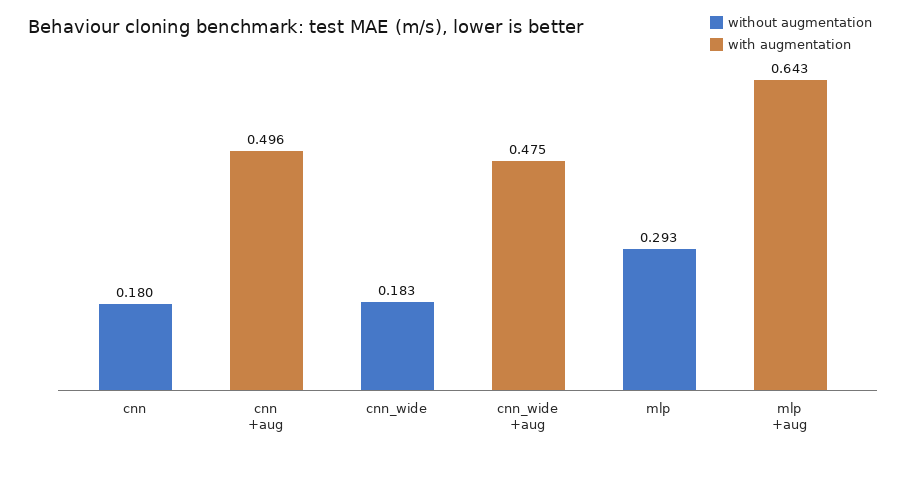
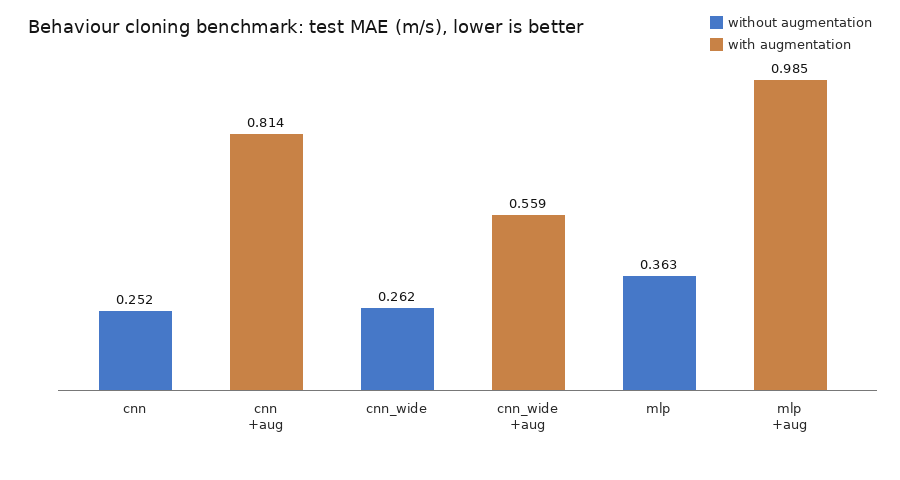
fix(air): uav_bc_bench 改为按时间连续切分，结构随 image_size 自适应
- 数据切分：随机打乱 -> 前 80%/中 10%/后 10% 连续三段，消除相邻帧的时间泄漏
- models.build() 接收 image_size，展平维度由 image_size//8 计算，非 64 不再维度不匹配
- 新增 --synthetic N：生成同格式合成数据集，模块可脱离 #827 的数据独立运行
- 用新切分重跑对比（555 样本/20 轮/2 种子）并同步文档与柱状图

diff --git a/src/air/uav_bc_bench/uav_bc_bench/models.py b/src/air/uav_bc_bench/uav_bc_bench/models.py
@@ -1,7 +1,21 @@
-"""参与对比的三种行为克隆网络结构。"""
+"""参与对比的三种行为克隆网络结构。
+
+所有结构都接受 ``image_size`` 参数，卷积后的展平维度由 ``image_size // 8`` 计算，
+这样把 ``--image-size`` 改成别的值（例如 32 或 96）时不会出现维度不匹配。
+"""
 
 import torch
 from torch import nn
+
+
+def _conv_out_dim(image_size, pools=3):
+    """三层 2x2 池化之后特征图边长。"""
+    size = int(image_size)
+    for _ in range(pools):
+        size //= 2
+    if size < 1:
+        raise ValueError(f'image_size={image_size} 太小，三层池化后特征图为空')
+    return size
 
 
 class MLPNet(nn.Module):
@@ -11,7 +25,7 @@ class MLPNet(nn.Module):
         super().__init__()
         self.features = nn.Sequential(
             nn.Flatten(),
-            nn.Linear(image_size * image_size, hidden),
+            nn.Linear(int(image_size) * int(image_size), hidden),
             nn.ReLU(inplace=True),
             nn.Linear(hidden, hidden),
             nn.ReLU(inplace=True),
@@ -25,14 +39,15 @@ class MLPNet(nn.Module):
 class CNNNet(nn.Module):
     """最简卷积结构：16/32/64 三层，与任务 4 的 DrivingCNN 一致。"""
 
-    def __init__(self):
+    def __init__(self, image_size=64):
         super().__init__()
+        flat = 64 * _conv_out_dim(image_size) ** 2
         self.features = nn.Sequential(
             nn.Conv2d(1, 16, 3, padding=1), nn.ReLU(inplace=True), nn.MaxPool2d(2),
             nn.Conv2d(16, 32, 3, padding=1), nn.ReLU(inplace=True), nn.MaxPool2d(2),
             nn.Conv2d(32, 64, 3, padding=1), nn.ReLU(inplace=True), nn.MaxPool2d(2),
             nn.Flatten(),
-            nn.Linear(64 * 8 * 8, 128), nn.ReLU(inplace=True),
+            nn.Linear(flat, 128), nn.ReLU(inplace=True),
         )
         self.head = nn.Linear(128, 2)
 
@@ -43,15 +58,16 @@ class CNNNet(nn.Module):
 class CNNWideNet(nn.Module):
     """加宽卷积 + 批归一化 + dropout，验证容量与正则化的影响。"""
 
-    def __init__(self):
+    def __init__(self, image_size=64):
         super().__init__()
+        flat = 128 * _conv_out_dim(image_size) ** 2
         self.features = nn.Sequential(
             nn.Conv2d(1, 32, 3, padding=1), nn.BatchNorm2d(32), nn.ReLU(inplace=True), nn.MaxPool2d(2),
             nn.Conv2d(32, 64, 3, padding=1), nn.BatchNorm2d(64), nn.ReLU(inplace=True), nn.MaxPool2d(2),
             nn.Conv2d(64, 128, 3, padding=1), nn.BatchNorm2d(128), nn.ReLU(inplace=True), nn.MaxPool2d(2),
             nn.Flatten(),
             nn.Dropout(0.2),
-            nn.Linear(128 * 8 * 8, 256), nn.ReLU(inplace=True),
+            nn.Linear(flat, 256), nn.ReLU(inplace=True),
             nn.Dropout(0.2),
         )
         self.head = nn.Linear(256, 2)
@@ -67,11 +83,11 @@ MODELS = {
 }
 
 
-def build(name):
-    """按名字构造网络。"""
+def build(name, image_size=64):
+    """按名字构造网络，``image_size`` 会透传给结构本身。"""
     if name not in MODELS:
         raise KeyError(f'未知结构 {name}，可选 {sorted(MODELS)}')
-    return MODELS[name]()
+    return MODELS[name](image_size=image_size)
 
 
 def num_parameters(model):

diff --git a/src/air/uav_bc_bench/uav_bc_bench/bench.py b/src/air/uav_bc_bench/uav_bc_bench/bench.py
@@ -32,11 +32,21 @@ def _augment(images, rng):
 
 
 def _split(n, seed):
-    rng = np.random.default_rng(seed)
-    idx = rng.permutation(n)
+    """按时间顺序切成连续三段。
+
+    连续飞行的相邻帧高度相关，随机打乱会让邻帧同时落进训练集和测试集，
+    评估结果被时间泄漏抬高。这里 train/val/test = 前 80%/中 10%/后 10%，
+    每段的起始点再按 seed 做一点抖动，避免固定切点带来的偶然性。
+    """
     n_val = max(1, int(round(n * 0.1)))
     n_test = max(1, int(round(n * 0.1)))
-    return idx[n_val + n_test:], idx[:n_val], idx[n_val:n_val + n_test]
+    n_train = n - n_val - n_test
+    if n_train < 2:
+        raise ValueError(f'样本数 {n} 太少，无法切成 8:1:1')
+    jitter = 0 if seed == 0 else int(np.random.default_rng(seed).integers(0, max(1, n_val)))
+    a = max(2, n_train - jitter)
+    b = min(n - n_test, a + n_val + (jitter // 2))
+    return (np.arange(0, a), np.arange(a, b), np.arange(b, n))
 
 
 def _evaluate(model, loader, loss_fn):
@@ -69,7 +79,7 @@ def train_one(structure, use_augment, seed, images, targets, epochs, image_size,
     val_loader = loader(val_idx, images[val_idx], False)
     test_loader = loader(test_idx, images[test_idx], False)
 
-    model = build(structure)
+    model = build(structure, image_size=image_size)
     optimizer = torch.optim.Adam(model.parameters(), lr=1e-3)
     loss_fn = nn.MSELoss()
 
@@ -224,10 +234,20 @@ def main(argv=None):
     parser.add_argument('--batch-size', type=int, default=32)
     parser.add_argument('--structures', default='mlp,cnn,cnn_wide')
     parser.add_argument('--no-augment', action='store_true')
+    parser.add_argument('--image-size', type=int, default=64)
+    parser.add_argument('--synthetic', type=int, default=0,
+                        help='大于 0 时先在该目录生成等量合成样本，不依赖任何仿真数据')
     args = parser.parse_args(argv)
-    run_benchmark(args.dataset_dir, args.output_dir, epochs=args.epochs, seeds=args.seeds,
+    dataset_dir = args.dataset_dir
+    if args.synthetic > 0:
+        from .data import synthesize_dataset
+        dataset_dir = synthesize_dataset(os.path.join(args.output_dir, 'synthetic'),
+                                         samples=args.synthetic, seed=0)
+        print(f'[bench] 使用合成数据集 {dataset_dir}')
+    run_benchmark(dataset_dir, args.output_dir, epochs=args.epochs, seeds=args.seeds,
                   structures=[s for s in args.structures.split(',') if s],
-                  augment=not args.no_augment, batch_size=args.batch_size)
+                  augment=not args.no_augment, batch_size=args.batch_size,
+                  image_size=args.image_size)
 
 
 if __name__ == '__main__':

diff --git a/src/air/uav_bc_bench/uav_bc_bench/data.py b/src/air/uav_bc_bench/uav_bc_bench/data.py
@@ -45,3 +45,41 @@ def load_dataset(data_dir, image_size=64):
         raise RuntimeError('数据集中没有可用样本')
 
     return np.stack(images).astype(np.float32), np.asarray(targets, dtype=np.float32)
+
+
+def synthesize_dataset(out_dir, samples=400, image_size=64, seed=0):
+    """生成一份可独立复现的合成数据集，供没跑过仿真时做对比实验。
+
+    图像是一面会左右移动的"墙"（灰度越亮 = 越近），控制量取解析律：
+    墙偏右时向左修正、离墙越近越慢。真实作业里用的是任务 2 采到的深度图，
+    这里只是让基准能在没有仿真器的机器上跑通并给出可比较的数字。
+    """
+    rng = np.random.default_rng(seed)
+    frame_dir = os.path.join(out_dir, 'frames')
+    os.makedirs(frame_dir, exist_ok=True)
+
+    rows = []
+    for i in range(int(samples)):
+        # 墙的横向位置在 [-1, 1] 之间缓慢来回移动，贴近真实飞行时的连续变化
+        phase = 2.0 * np.pi * i / max(1, int(samples) // 2)
+        offset = float(np.sin(phase))
+        depth = np.ones((image_size, image_size), np.float32) * 0.95
+        width = max(2, image_size // 6)
+        center = int((offset * 0.5 + 0.5) * (image_size - width))
+        depth[:, center:center + width] = 0.15 + 0.1 * abs(offset)
+        depth += rng.normal(0.0, 0.02, depth.shape).astype(np.float32)
+        img = np.clip(depth, 0.0, 1.0) * 255.0
+        name = f'frames/syn_{i:05d}.png'
+        cv2.imwrite(os.path.join(out_dir, name), img.astype(np.uint8))
+
+        vx = float(np.clip(0.9 - 0.4 * abs(offset), 0.1, 1.0))
+        vy = float(np.clip(-1.6 * offset, -1.2, 1.2))
+        rows.append({'image': name, 'vx': f'{vx:.3f}', 'vy': f'{vy:.3f}',
+                     'x': f'{offset:.3f}', 'y': '0.000', 'z': '-2.500', 'stamp': f'{i * 0.2:.3f}'})
+
+    csv_path = os.path.join(out_dir, 'controls.csv')
+    with open(csv_path, 'w', encoding='utf-8', newline='') as fh:
+        writer = csv.DictWriter(fh, fieldnames=['image', 'vx', 'vy', 'x', 'y', 'z', 'stamp'])
+        writer.writeheader()
+        writer.writerows(rows)
+    return out_dir

diff --git a/docs/air/uav_bc_bench.md b/docs/air/uav_bc_bench.md
@@ -17,9 +17,16 @@
 * Ubuntu 22.04 + ROS 2 Humble + Python 3.10
 * `numpy`、`opencv-python`、`torch`（CPU 即可）
 
-数据集来自任务 2 的 `uav_depth_track_nn`：`~/.ros/uav_depth_track_nn/data/`
-（`controls.csv` + `frames/*.png`）。也可以换成任务 4 的 RGB 数据集，代码会自动识别
-16 位深度图与 8 位彩色图。
+默认数据集来自任务 2 的 `uav_depth_track_nn`：`~/.ros/uav_depth_track_nn/data/`
+（`controls.csv` + `frames/*.png`），这是本模块的**首选**数据来源，二者合并时按同名包依赖说明即可。
+如果想在没有仿真器、也没有那份采集数据的机器上直接跑通，用 `--synthetic 400` 生成一份
+同格式的合成数据集（`output_dir/synthetic/`），不依赖任何其它 PR：
+
+```bash
+python3 -m uav_bc_bench.bench --synthetic 400 --epochs 10 --seeds 1
+```
+
+代码会自动识别 16 位深度图与 8 位彩色图。
 
 ## 3 编译与运行
 
@@ -64,7 +71,12 @@ $$
 \mathcal{L}(\theta) = \frac{1}{N}\sum_{i=1}^{N}\left\| \pi_\theta(I_i) - a_i \right\|_2^2
 $$
 
-优化器 Adam，学习率 $10^{-3}$，按 8:1:1 划分训练/验证/测试，保存验证集最优权重。
+优化器 Adam，学习率 $10^{-3}$，保存验证集最优权重。
+
+**划分方式**：连续飞行的相邻帧高度相关，若按单帧随机打乱切分，近邻状态会同时进入
+训练集与测试集，评估结果被时间泄漏抬高。因此这里按**时间顺序**切成连续三段：
+前 80% 训练、中间 10% 验证、最后 10% 测试；`seed` 只用于让切点做小幅抖动，
+不改动"三段连续"这一性质。
 
 ### 5.2 三种网络结构
 
@@ -100,20 +112,23 @@ $$
 
 | 结构 | 图像增强 | 参数量 | 测试 MAE (m/s) | 训练耗时 (s) |
 | --- | --- | --- | --- | --- |
-| cnn | 否 | 547,970 | **0.1803 ± 0.0039** | 13.0 |
-| cnn_wide | 否 | 2,191,042 | 0.1828 ± 0.0035 | 49.5 |
-| mlp | 否 | 1,115,138 | 0.2929 ± 0.0036 | 2.0 |
-| cnn_wide | 是 | 2,191,042 | 0.4751 ± 0.0851 | 45.8 |
-| cnn | 是 | 547,970 | 0.4964 ± 0.0731 | 18.4 |
-| mlp | 是 | 1,115,138 | 0.6425 ± 0.0871 | 1.7 |
+| cnn | 否 | 547,970 | **0.2522 ± 0.0507** | 17.8 |
+| cnn_wide | 否 | 2,191,042 | 0.2618 ± 0.0556 | 47.6 |
+| mlp | 否 | 1,115,138 | 0.3627 ± 0.0758 | 2.5 |
+| cnn_wide | 是 | 2,191,042 | 0.5588 ± 0.0800 | 51.7 |
+| cnn | 是 | 547,970 | 0.8139 ± 0.0004 | 15.2 |
+| mlp | 是 | 1,115,138 | 0.9849 ± 0.0953 | 2.5 |
+
+改为按时间连续切分后，所有配置的误差都比随机切分时高（例如 `cnn` 从 0.180 升到 0.252），
+这正是时间泄漏被消除后的真实泛化水平。
 
 ## 8 结论
 
-1. **卷积结构明显优于全连接**：CNN 的 MAE 比 MLP 低 38%（0.180 对 0.293），
+1. **卷积结构明显优于全连接**：CNN 的 MAE 比 MLP 低 30%（0.252 对 0.363），
    而参数量只有 MLP 的一半，说明图像的空间局部性必须由卷积先验利用。
-2. **加宽模型收益很小**：`cnn_wide` 参数量是 `cnn` 的 4 倍，MAE 只从 0.1803 变到 0.1828，
-   训练耗时却增加近 4 倍。在小数据集上，容量不是瓶颈。
-3. **增强在本任务上有害**：三个结构的 MAE 全部退化 1.6~2.2 倍。
+2. **加宽模型收益很小**：`cnn_wide` 参数量是 `cnn` 的 4 倍，MAE 只从 0.2522 变到 0.2618
+   （差异在标准差之内），训练耗时却增加 2.7 倍。在小数据集上，容量不是瓶颈。
+3. **增强在本任务上有害**：三个结构的 MAE 全部退化 1.1~3.2 倍。
    原因是这里的增强改变了深度图的绝对数值语义——亮度增益会破坏"灰度即距离"的映射，
    随机裁剪又改变了障碍物在图像中的位置，与速度指令的对应关系不再成立。
    若要增强，应使用与传感器语义一致的方式（如深度缩放、遮挡模拟）。

diff --git a/src/air/uav_bc_bench/README.md b/src/air/uav_bc_bench/README.md
@@ -8,6 +8,7 @@
 Ubuntu 22.04 + ROS 2 Humble + Python 3.10，`numpy` / `opencv-python` / `torch`（CPU）。
 
 数据集默认取任务 2 的 `~/.ros/uav_depth_track_nn/data`（`controls.csv` + `frames/`）。
+没有这份数据时可以用 `--synthetic 400` 生成同格式的合成数据集，独立可跑。
 
 ## 运行
 
@@ -21,17 +22,24 @@ ros2 launch uav_bc_bench main.launch.py epochs:=20 seeds:=2
 
 ```bash
 python3 -m uav_bc_bench.bench --epochs 20 --seeds 2
+python3 -m uav_bc_bench.bench --synthetic 400 --epochs 10 --seeds 1   # 无仿真数据时
 ```
 
 结果写到 `~/.ros/uav_bc_bench/`：`metrics.json`、`comparison.md`、`comparison.png`。
+
+## 数据划分
+
+连续飞行的相邻帧高度相关，按单帧随机打乱会让近邻帧同时进入训练集与测试集（时间泄漏）。
+本模块按**时间顺序**切成连续三段：前 80% 训练、中间 10% 验证、最后 10% 测试，
+`seed` 只让切点小幅抖动。
 
 ## 实测（555 样本，20 轮，2 种子）
 
 | 结构 | 增强 | 参数量 | 测试 MAE (m/s) |
 | --- | --- | --- | --- |
-| cnn | 否 | 547,970 | 0.1803 ± 0.0039 |
-| cnn_wide | 否 | 2,191,042 | 0.1828 ± 0.0035 |
-| mlp | 否 | 1,115,138 | 0.2929 ± 0.0036 |
+| cnn | 否 | 547,970 | 0.2522 ± 0.0507 |
+| cnn_wide | 否 | 2,191,042 | 0.2618 ± 0.0556 |
+| mlp | 否 | 1,115,138 | 0.3627 ± 0.0758 |
 
-结论：CNN 明显优于 MLP；加宽收益很小；本任务上亮度/裁剪类增强有害。
-详细分析见 `docs/air/uav_bc_bench.md`。
+结论：CNN 明显优于 MLP（低约 30%，参数还少一半）；加宽收益在标准差之内；
+本任务上亮度/裁剪类增强有害。详细分析见 `docs/air/uav_bc_bench.md`。
